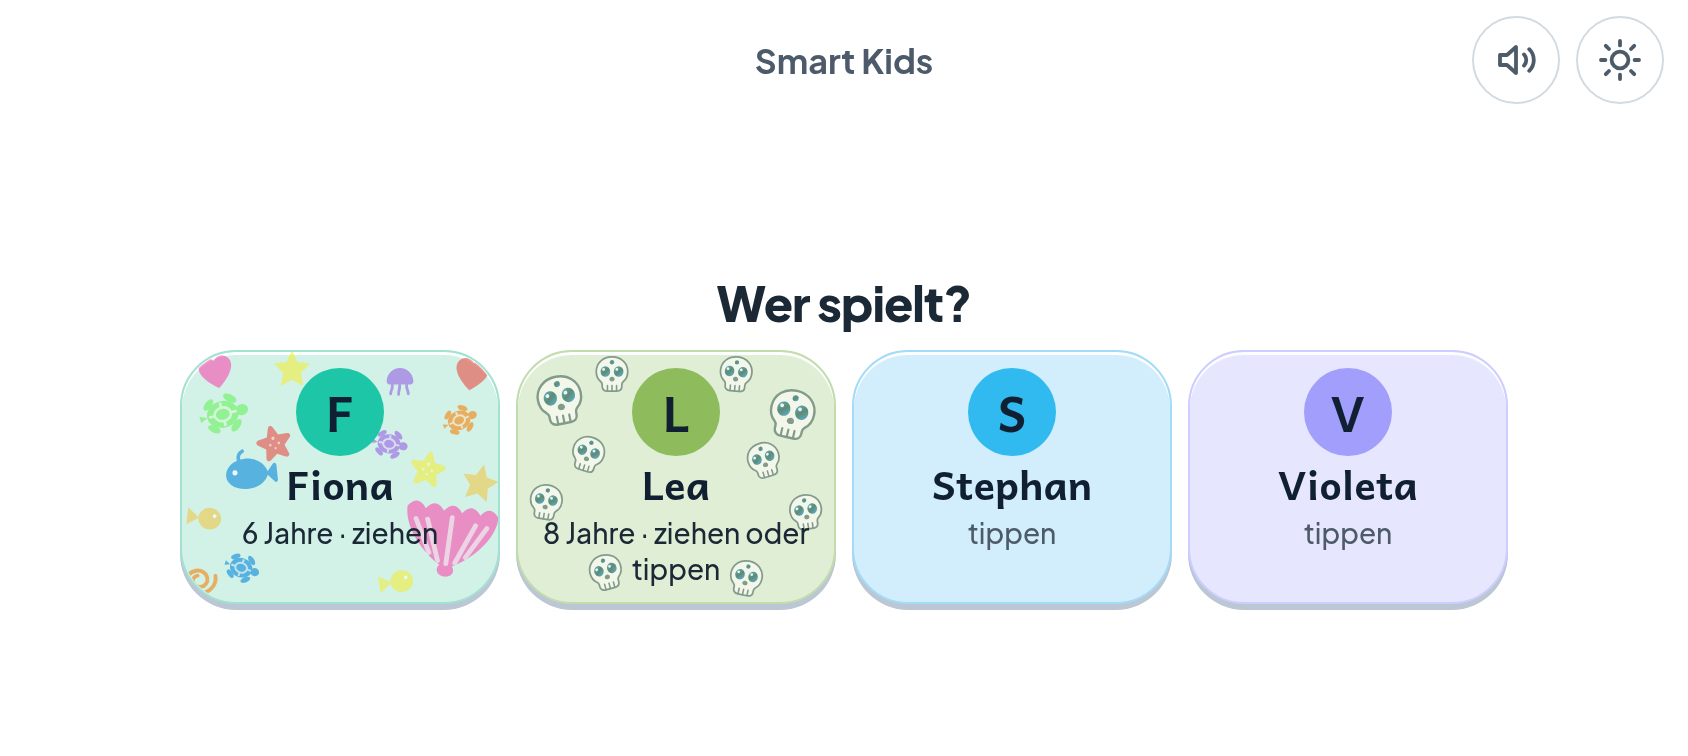
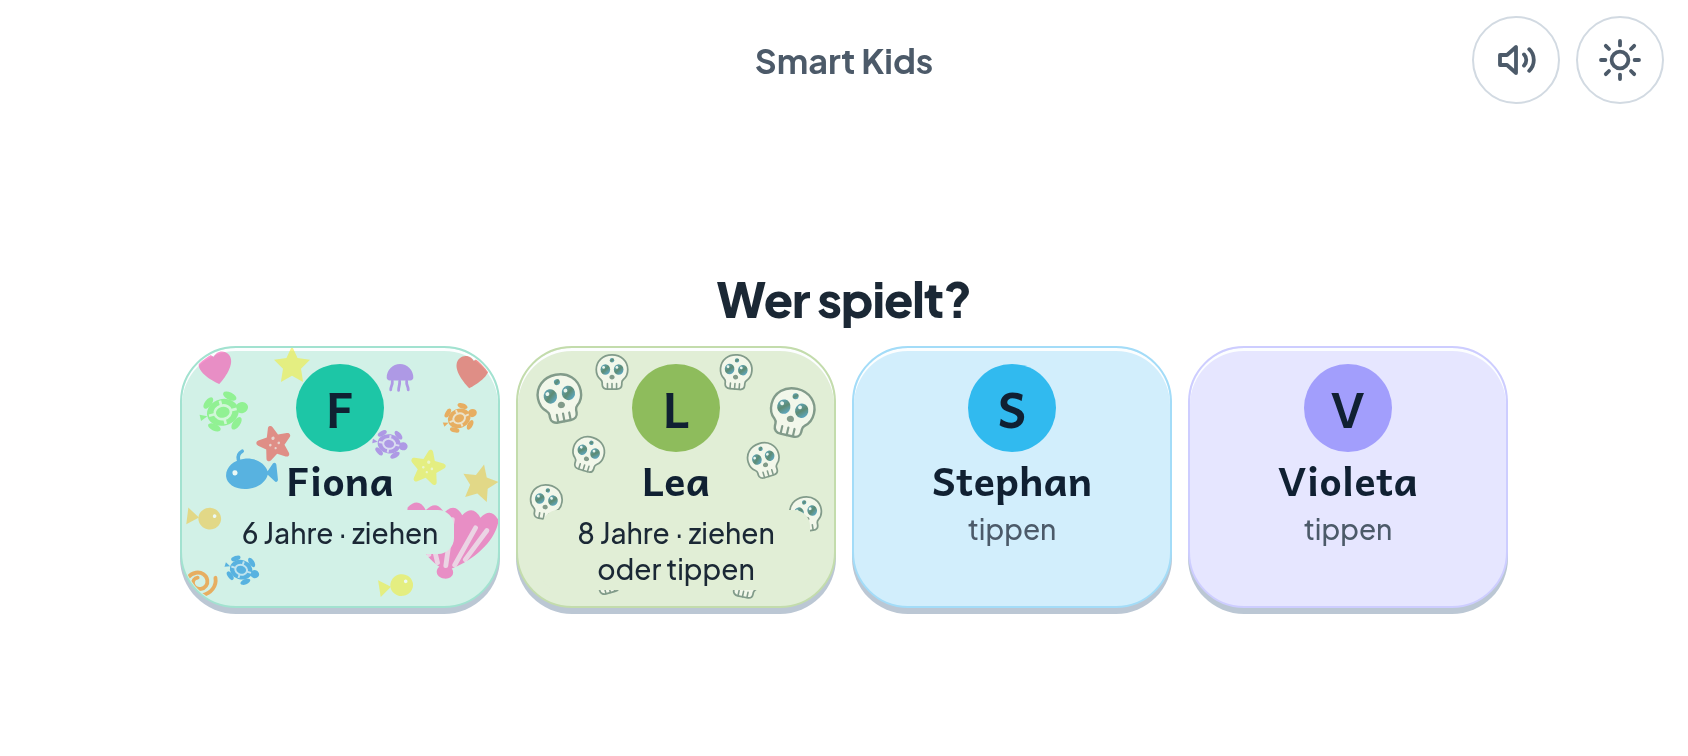
Q14: die drei Gründe, aus denen der Runner rot war — und keiner war ein Fehler der App
Mit dem Protokoll aus dem vorigen Einchecken war endlich zu sehen, woran
die Auslieferung seit dem 31.08. scheitert. Drei Sachen, und alle drei
sind Fehler in den TOREN, nicht in der App:

1. `passt` verglich KÄSTEN statt Schrift.
   „Wie heißt dieses Bundesland?" steht mittig in einem Kasten über die
   ganze Breite; die Antwortspalte rechts liegt unter dessen Rand, ohne
   dass sich ein Buchstabe berührt. Hier sind es 6 Punkte Abstand, auf dem
   Runner (Chromium 151 statt 141) 7 Punkte Überlappung — und das Tor
   meldete „ueberlappen sich um 176×7 px". Zu sehen war nichts. Jetzt
   gilt: was einen Grund oder eine Kante hat, wird als Kasten gemessen;
   nackter Text mit seinen Zeilenkästen. Dieselbe Technik, die das Tor
   beim Bild unter dem Namen längst benutzt.

2. Die Ratsche in `masse-stand.json` war ein Faden, kein Band.
   Ihre Zahlen kommen aus einem Browser. Zwischen 141 und 151 wich der
   Anteil des Kachelbildes unter dem Namen um bis zu 5 Prozentpunkte ab,
   die Beispielkarten im Vorlauf um 5 % — acht der neun Befunde waren
   das. Eine Ratsche soll den Einbruch fangen, nicht das Rauschen zweier
   Textmaschinen: jetzt anteilig mit Boden (Regel 2), ±6 Prozentpunkte
   bzw. ±8 %.

3. `lesbarkeit` maß eine Zahl, die am Zeilenumbruch hing.
   Die kleine Zeile auf Fionas Kachel („6 Jahre · ziehen und sprechen")
   steht auf dem Streu. Welches Motiv gerade darunter liegt, entscheidet
   der Umbruch — auf dem Runner der blaue Fisch, 4,32:1 statt 4,5. Die
[…]

diff --git a/prototyp/vorlage.html b/prototyp/vorlage.html
@@ -512,7 +512,11 @@ body{background:linear-gradient(168deg,var(--grund) 0%,var(--grund-2) 100%);
    Der Umriss sitzt rechts und wird nach links ausgeblendet; ohne diese
    Maske lief er im Entwurf mitten durch das Wort „Bundeslaender". */
 .kachel.bunt,.kachel.welt,.kachel.wer{
-  background:color-mix(in oklab, var(--ton) 26%, var(--papier));
+  /* Der Grund steht als MARKE da, nicht nur als Wert: die kleine Zeile
+     auf der Profilkachel braucht ihn noch einmal (siehe `.rolle`), und
+     zweimal derselbe `color-mix` waeren zwei, die getrennt veralten. */
+  --kachelgrund:color-mix(in oklab, var(--ton) 26%, var(--papier));
+  background:var(--kachelgrund);
   border:var(--strich) solid color-mix(in oklab, var(--ton) 52%, var(--papier))}
 /* Das Wasserzeichen liegt GANZ in der Kachel. Bei 150 % Hoehe lief es
    oben und unten heraus: Afrika war ein Fleck, Deutschland ein Schmier -
@@ -686,8 +690,22 @@ body{background:linear-gradient(168deg,var(--grund) 0%,var(--grund-2) 100%);
    geschaetzt. Repariert wird die Ursache, nicht das Symptom: nicht der
    Streu wird blasser (die Leuchtfarben waren ausdruecklich gewuenscht),
    sondern der Text auf dem unruhigen Grund dunkler. `:has()` fragt die
-   Kachel selbst - das Programm muss nichts mitschicken. */
-.kachel:has(.streu) .rolle{color:var(--tinte)}
+   Kachel selbst - das Programm muss nichts mitschicken.
+
+   Das reichte nicht (Q14). Dunkler hilft nur, solange unter dem Text
+   etwas HELLES liegt; liegt dort der blaue Fisch, sind es 4,32:1 statt
+   4,5 - und WELCHES Motiv gerade darunter liegt, entscheidet der
+   Zeilenumbruch. Auf dem Runner brach die Zeile eine Stelle anders um
+   als hier, und die Auslieferung war rot, waehrend hier alles gruen war.
+
+   Eine Zahl, die vom Zeilenumbruch abhaengt, ist keine Zusage. Die Zeile
+   bekommt deshalb ihren eigenen Grund - genau den der Kachel. Sichtbar
+   ist das kaum (dieselbe Farbe), aber der Streu liegt jetzt HINTER dem
+   Text und nicht mehr unter ihm, und der Kontrast ist wieder eine feste
+   Zahl statt eines Wuerfels. */
+.kachel:has(.streu) .rolle{color:var(--tinte);
+  background:var(--kachelgrund);border-radius:var(--r2);
+  padding:var(--r0) var(--r2)}
 /* Statt "0 von 4": drei Sterne und die Zahl der Aufkleber.
    Fiona liest keine Zahlen - aber sie sieht, ob ein Stern voll ist. */
 .kachel .kachelfuss{display:flex;flex-direction:column;align-items:stretch;
